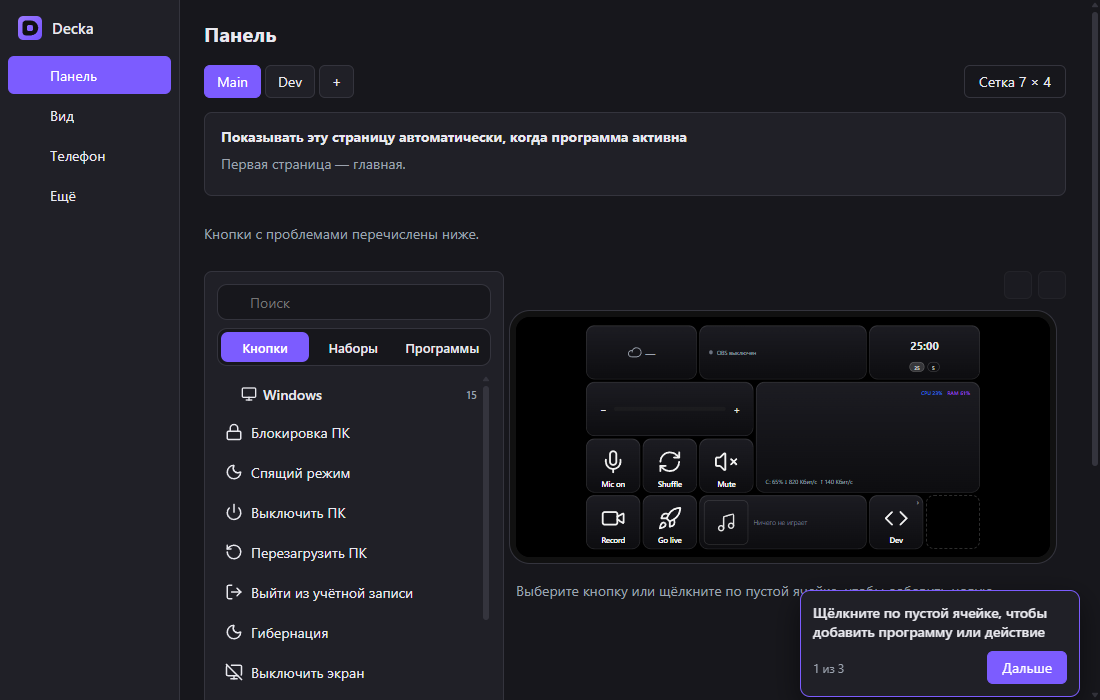
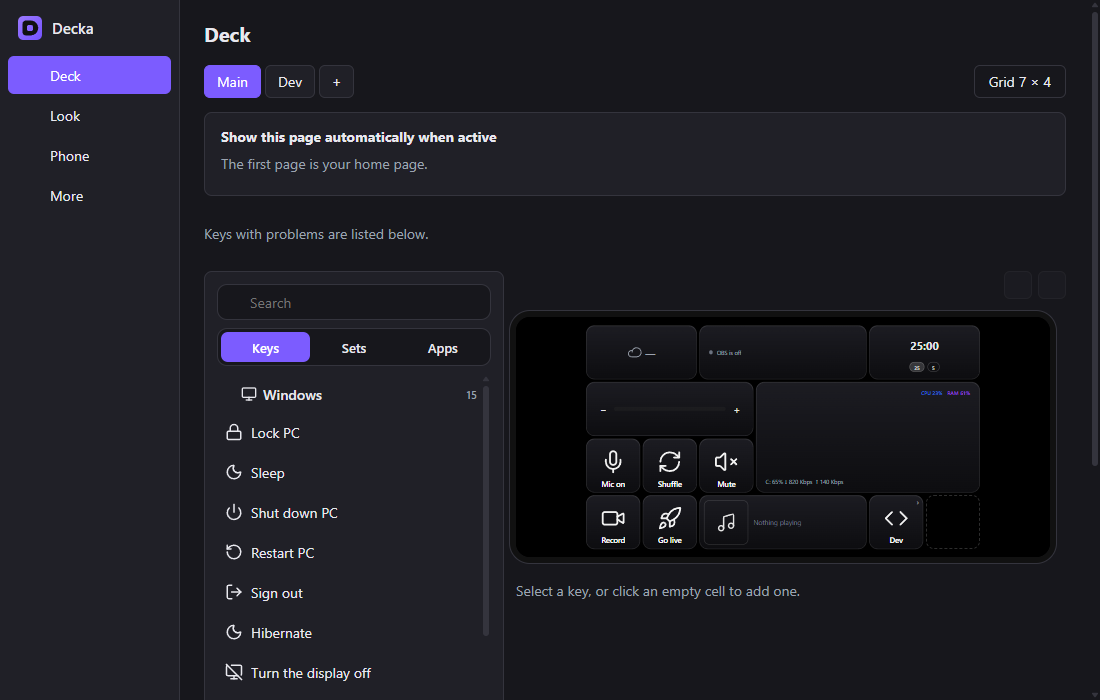
T22.1: screenshots

diff --git a/tools/voice-shots/main.tsx b/tools/voice-shots/main.tsx
@@ -27,6 +27,38 @@ const info = {
 };
 
 const root = createRoot(document.getElementById("root")!);
+if (scene === "deck" || scene === "settings") {
+  // README pictures (T22.1): demo data from the shared fixtures, nothing personal.
+  const [stateFx, actionsFx] = await Promise.all([import("../../shared/fixtures/state.m15.json"), import("../../shared/fixtures/actions.default.json")]);
+  const fx = JSON.parse(JSON.stringify(stateFx.default)) as { layout: { display: Record<string, unknown>; pages: { items: unknown[] }[] }; [k: string]: unknown };
+  fx.layout.display = { ...fx.layout.display, theme: q.get("theme") ?? "glass", wallpaper: q.get("wallpaper") ?? "aurora", orientation: "landscape" };
+  fx.layout.pages[0]!.items.push({ id: "w-media", kind: "media", x: 2, y: 3, w: 3, h: 1, prevAction: "media-prev", playAction: "media-play", nextAction: "media-next" });
+  if (scene === "deck") {
+    await import("../../client/src/styles.css");
+    localStorage.setItem("decka.glass.reduced.v1", "0");
+    document.body.style.background = "#000";
+    const { default: DeckScreen } = await import("../../client/src/screens/DeckScreen");
+    setState({ conn: "online", state: fx as never });
+    root.render(<DeckScreen />);
+  } else {
+    await import("../../agent/src/styles.css");
+    localStorage.setItem("decka.wizard.done.v1", "1");
+    localStorage.setItem("decka.editor.tips.v1", "1");
+    const layout = { version: 1, ...fx.layout };
+    const answers: Record<string, unknown> = { get_layout: layout, get_actions: actionsFx.default, get_update_status: { state: "idle" }, get_status: { running: true } };
+    (window as never as { __TAURI_INTERNALS__: unknown }).__TAURI_INTERNALS__ = {
+      invoke: async (cmd: string) => {
+        if (cmd in answers) return answers[cmd];
+        console.log("unmocked:", cmd);
+        return cmd.startsWith("plugin:event") ? 1 : null;
+      },
+      transformCallback: () => 1,
+      metadata: { currentWindow: { label: "main" }, currentWebview: { label: "main", windowLabel: "main" } },
+    };
+    const { default: App } = await import("../../agent/src/App");
+    root.render(<App />);
+  }
+} else {
 // The two bundles have their own style sheets that must not meet: only the scene's one is loaded.
 if (scene === "pill") await import("../../agent/src/styles.css");
 else await import("../../client/src/styles.css");
@@ -43,4 +75,5 @@ if (scene === "pill") {
       <VoiceConfirmSheet />
     </>,
   );
+}
 }

diff --git a/README.md b/README.md
@@ -25,7 +25,9 @@ The `Hash` column must equal the hash on the line of the same file in `SHA256SUM
 
 Decka turns an old Android phone into a desk panel for a Windows PC: a 5x3 grid of buttons that launch programs, send hotkeys, open URLs and control media, plus live widgets for PC state, service statuses and webhook notifications. A small agent runs in the Windows tray; the phone shows the panel and only ever tells the agent *which button* was pressed.
 
-<!-- Screenshot: docs/img/hero.png -->
+![Decka on a phone: the Glass look with widgets and keys](docs/img/hero.png)
+
+![The Decka settings window, Deck tab](docs/img/settings.png)
 
 ## Why
 
@@ -68,7 +70,11 @@ Pick the look of the deck in **Appearance**; the phone changes within a second o
 - **Material**: tonal colours generated from your accent colour, with a rounder shape that morphs on press.
 - **Glass**: frosted glass over a wallpaper (aurora, sunset, ocean, graphite, or the cover of the current track). If the phone is too slow it drops to a lighter version by itself; **Reduce effects** in the phone menu switches it by hand.
 
-Screenshots will go to `docs/img/theme-amoled.png`, `theme-studio.png`, `theme-material.png` and `theme-glass.png`.
+| AMOLED | Studio |
+|---|---|
+| ![AMOLED look](docs/img/theme-amoled.png) | ![Studio look](docs/img/theme-studio.png) |
+| **Material** | **Glass** |
+| ![Material look](docs/img/theme-material.png) | ![Glass look](docs/img/theme-glass.png) |
 
 A long press (1.2 s) on an empty spot of the phone screen opens the phone menu: the connection, **Reduce effects**, **Haptics**, **Reload** and **Unpair**. Keys can also give a short vibration; it is on by default and kept per phone.
 
@@ -77,6 +83,8 @@ In **Layout** the preview is the real deck in the chosen look: drag a program, a
 ## Voice control
 
 Say what you want: *turn the volume down*, *open Spotify*, *switch to Chrome*, *move this window to the other monitor*, *search YouTube for lofi*, *set a timer for 10 minutes*, *lock the PC*. Start it with **Ctrl+Alt+Space** on the PC (press again to finish, **Esc** cancels) or with the round microphone button on the phone (hold to talk, drag to move).
+
+![The voice pill with an answer](docs/img/voice.png)
 
 - **Off until you turn it on.** **More → Voice → Turn on voice control** downloads the speech and language models once (about 3.2 GB; 1.8 GB with the light model for PCs with little memory), each file checked against a fixed SHA-256, to `%LOCALAPPDATA%\Decka\ai`. **Remove voice control** deletes them.
 - **Everything runs on this PC.** Speech recognition (whisper.cpp) and the language model (llama.cpp with Qwen3.5) run as hidden local programs on `127.0.0.1`; what you say is never sent anywhere and never written to the log.
